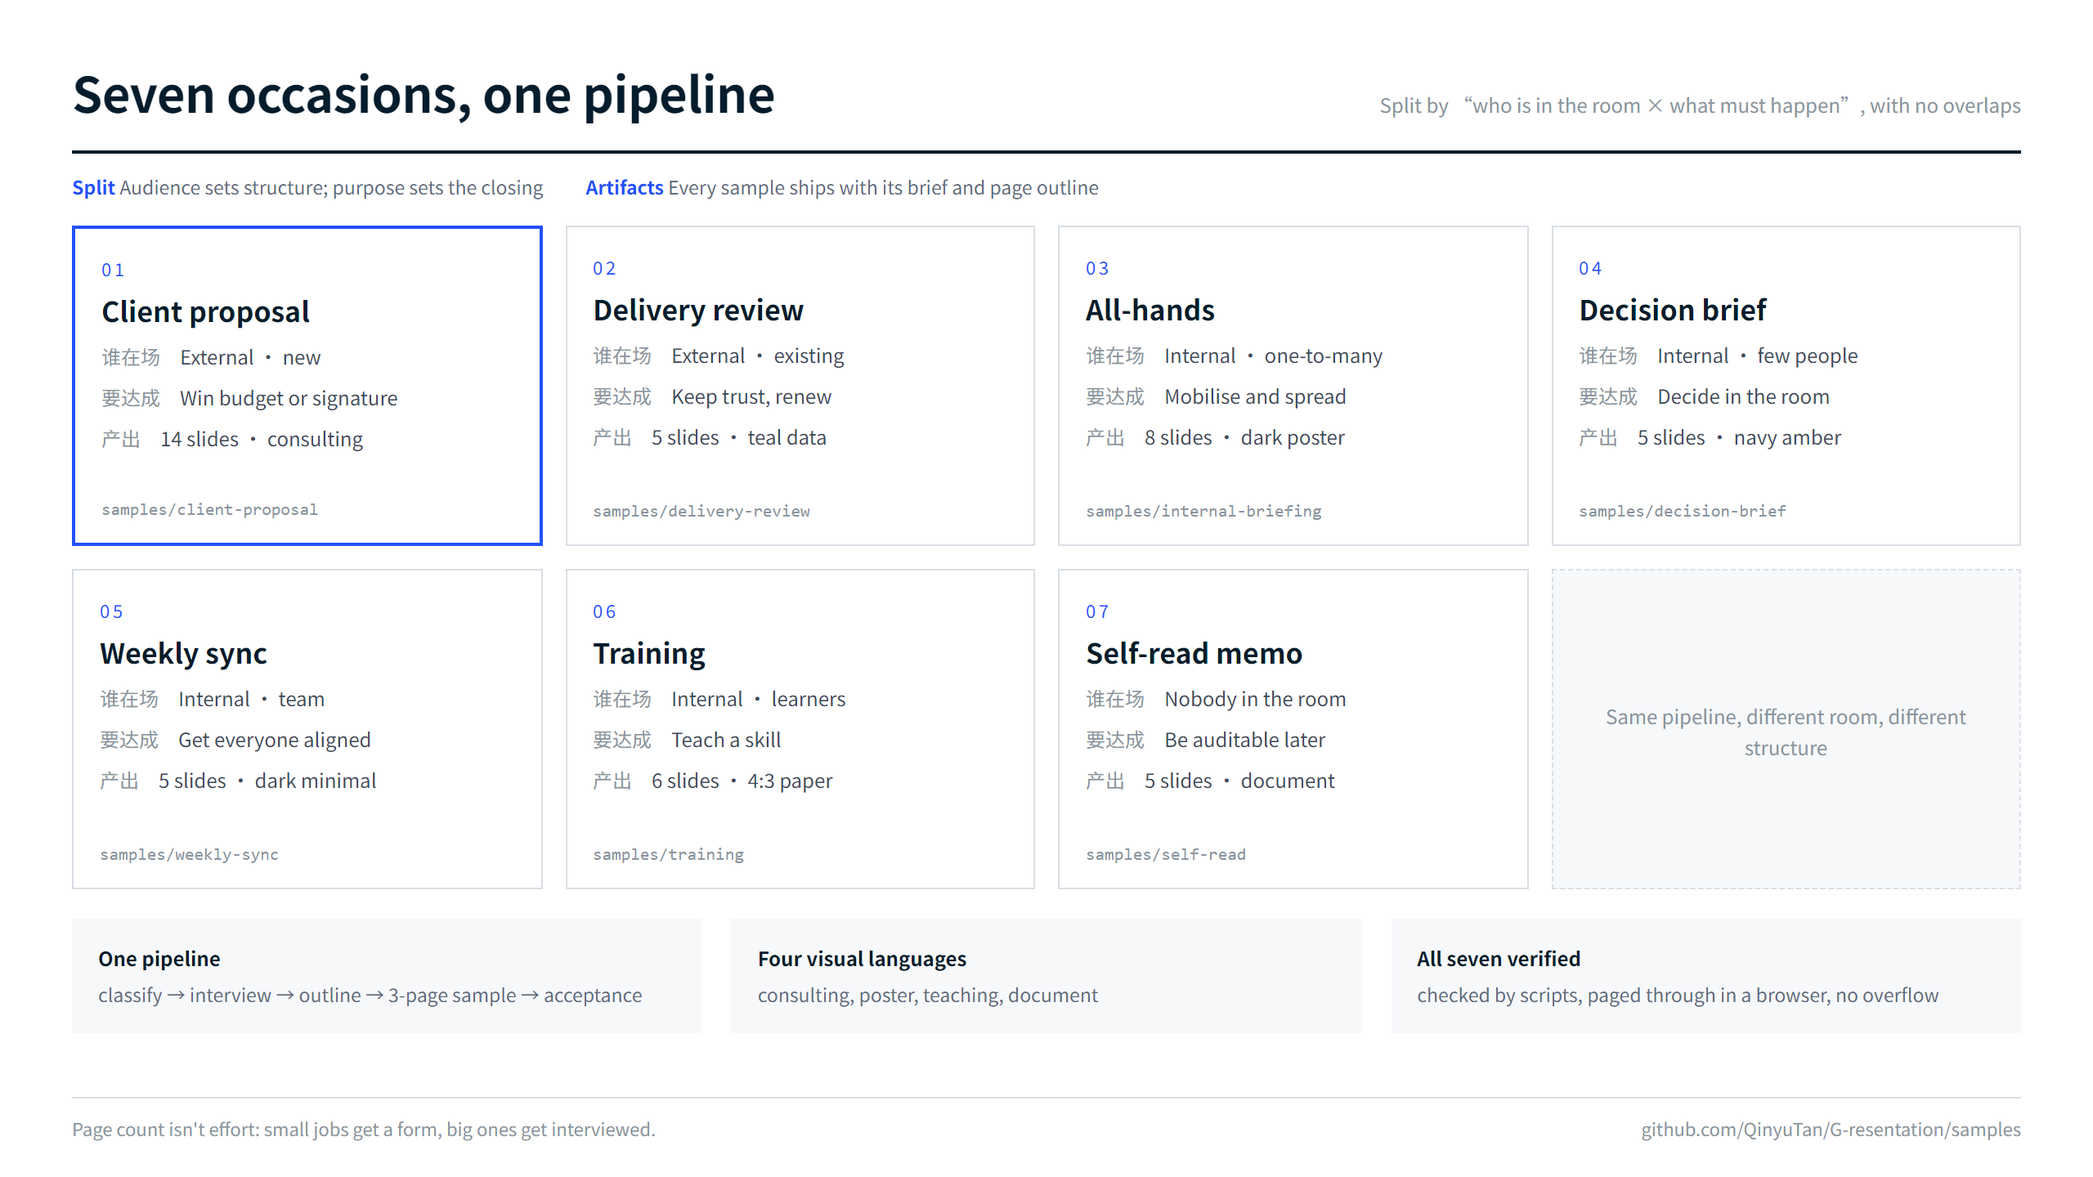
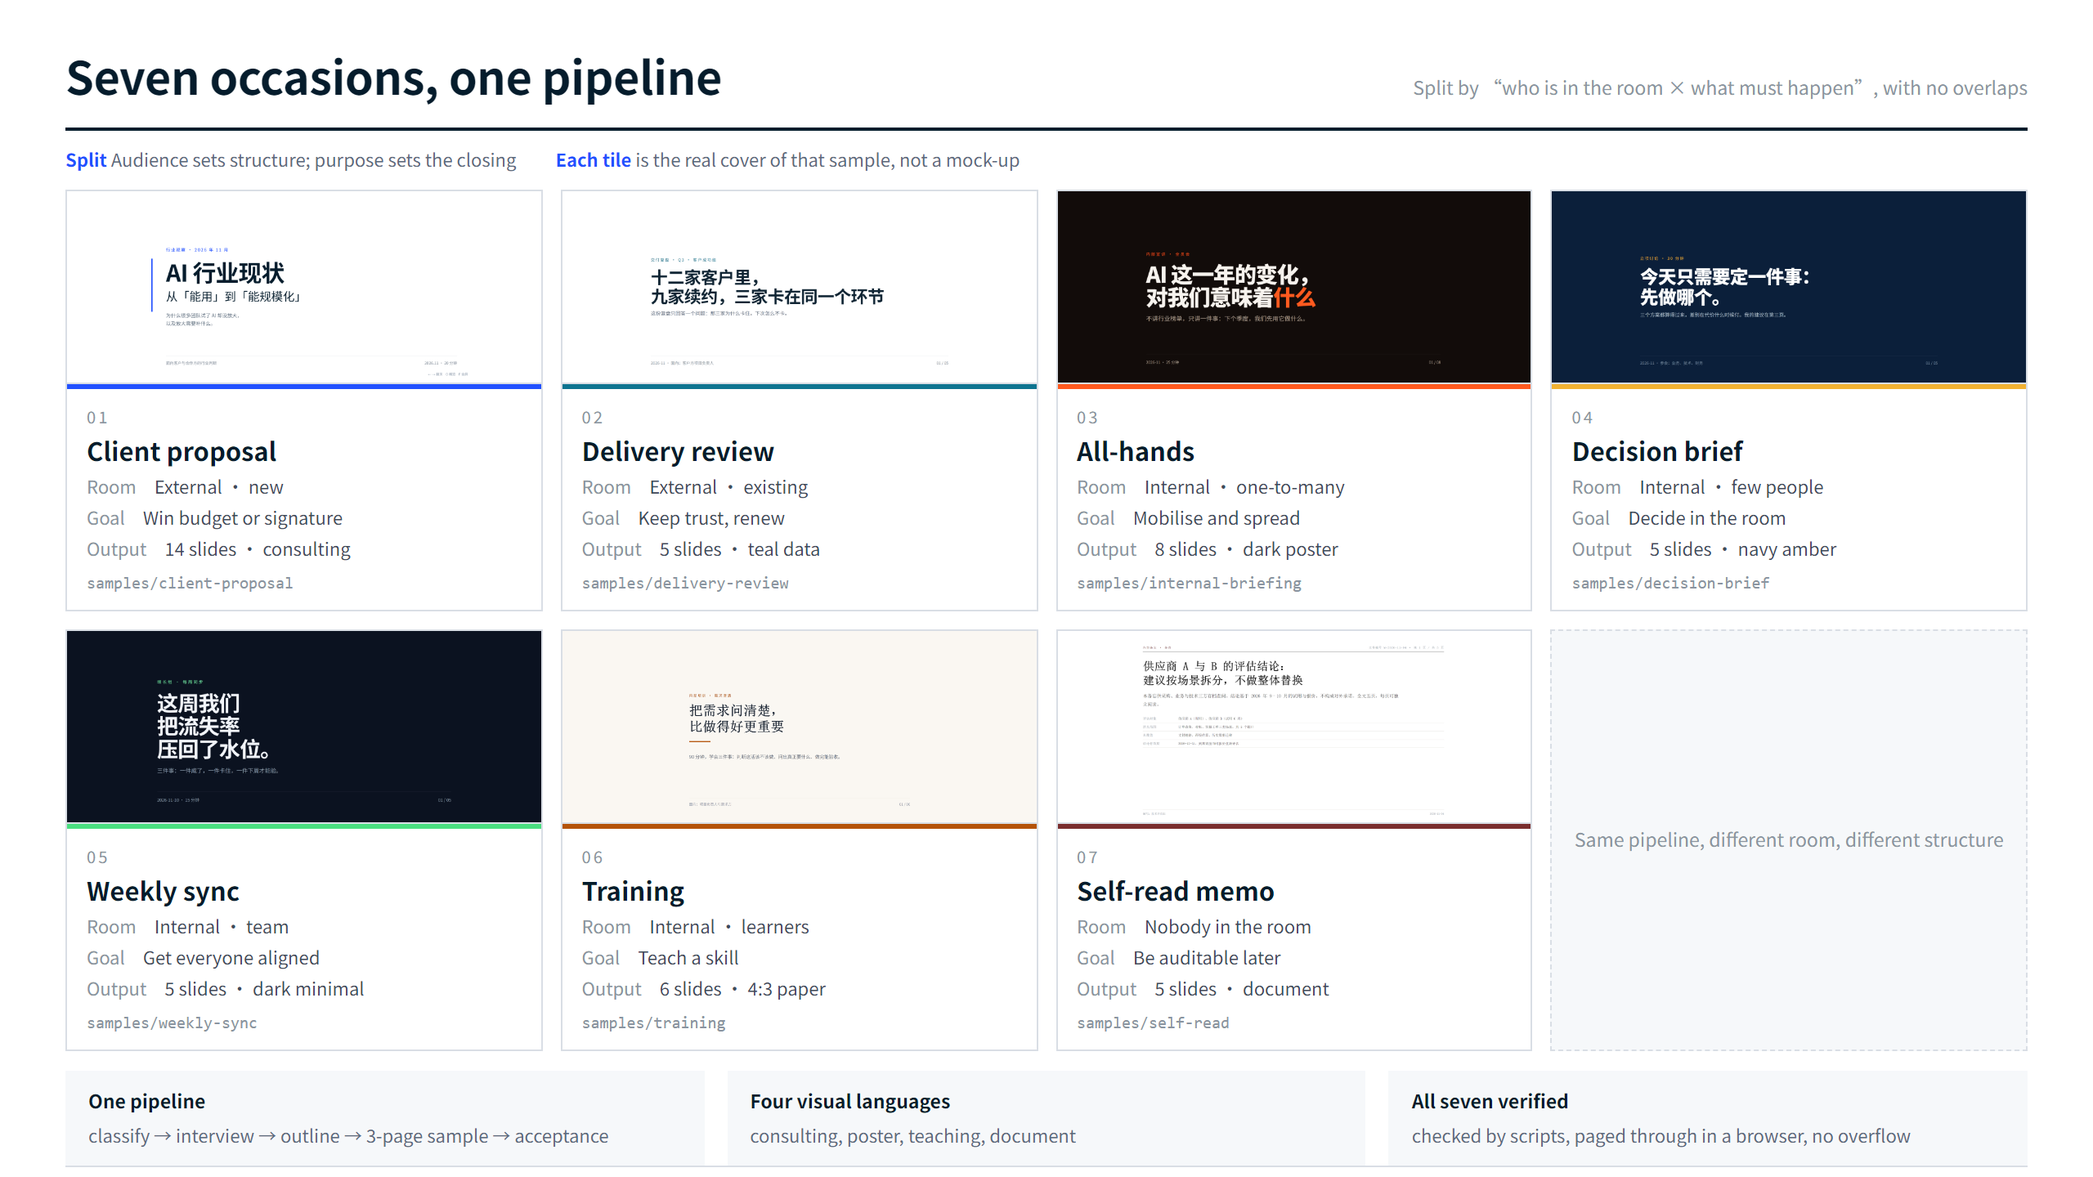
docs: 场景图改为真实封面，并如实说明样例的边界
- 七格各带该样例的真实封面，底色沿用各自版式，不再统一白底
- samples/README 增“证明了什么 / 没有证明什么”两节
- 撤回“文档先冻结、页面照着做”这一不准确表述：只有 client-proposal 走了完整闸口
- README 中英同步说明：页面为手写实现，不代表流水线端到端自动生成

diff --git a/docs/images/src/scenarios.html b/docs/images/src/scenarios.html
@@ -8,37 +8,38 @@
   *{margin:0;padding:0;box-sizing:border-box}
   html,body{width:1280px;height:720px;overflow:hidden;background:#fff}
   body{font-family:"Source Han Sans SC","Noto Sans SC","PingFang SC","Microsoft YaHei",sans-serif;color:var(--ink)}
-  .wrap{width:1280px;height:720px;padding:34px 44px 22px;display:flex;flex-direction:column}
-  header{display:flex;justify-content:space-between;align-items:baseline;border-bottom:2px solid var(--ink);padding-bottom:14px}
-  h1{font-size:30px;letter-spacing:-.01em}
-  .sub{font-size:12px;color:var(--faint)}
-  .legend{display:flex;gap:26px;margin-top:12px;font-size:11.5px;color:var(--muted)}
+  .wrap{width:1280px;height:720px;padding:26px 40px 16px;display:flex;flex-direction:column}
+  header{display:flex;justify-content:space-between;align-items:baseline;border-bottom:2px solid var(--ink);padding-bottom:12px}
+  h1{font-size:28px;letter-spacing:-.01em}
+  .sub{font-size:11.5px;color:var(--faint)}
+  .legend{display:flex;gap:24px;margin-top:9px;font-size:11px;color:var(--muted)}
   .legend b{color:var(--accent);font-weight:600}
-  .grid{display:grid;grid-template-columns:repeat(4,1fr);gap:14px;margin-top:16px}
-  .card{border:1px solid var(--rule);padding:16px 16px 14px;display:flex;flex-direction:column;gap:7px;background:#fff;min-height:196px}
-  .card:first-child{border-color:var(--accent);border-width:2px}
-  .n{font-size:11px;letter-spacing:.16em;color:var(--accent)}
-  .t{font-size:17px;font-weight:700;line-height:1.35}
-  .m{font-size:12px;color:#3E4C5A;line-height:1.5}
+  .grid{display:grid;grid-template-columns:repeat(4,1fr);gap:11px;margin-top:11px}
+  .card{border:1px solid var(--rule);background:#fff;overflow:hidden;display:flex;flex-direction:column}
+  .card .thumb{width:100%;height:118px;object-fit:contain;background:var(--bg);display:block;border-bottom:1px solid var(--rule)}
+  .card .bd{padding:9px 12px 10px;display:flex;flex-direction:column;gap:3px;border-top:3px solid var(--k)}
+  .n{font-size:10px;letter-spacing:.16em;color:var(--faint)}
+  .t{font-size:15.5px;font-weight:700;line-height:1.3;margin-bottom:2px}
+  .m{font-size:11px;color:#3E4C5A;line-height:1.45}
   .m span{color:var(--faint)}
-  .dir{margin-top:auto;font-size:10.5px;color:var(--faint);font-family:Consolas,monospace}
-  .empty{border:1px dashed var(--rule);background:var(--panel);display:flex;align-items:center;justify-content:center;font-size:12px;color:var(--faint);text-align:center;line-height:1.6}
-  .strip{display:grid;grid-template-columns:repeat(3,1fr);gap:18px;margin-top:18px}
-  .strip div{background:var(--panel);padding:14px 16px;font-size:11.5px;color:var(--muted);line-height:1.6}
-  .strip b{display:block;color:var(--ink);font-size:12px;margin-bottom:4px}
-  footer{display:flex;justify-content:space-between;margin-top:auto;border-top:1px solid var(--rule);padding-top:10px;font-size:11px;color:var(--faint)}
+  .dir{margin-top:4px;font-size:10px;color:var(--faint);font-family:Consolas,monospace}
+  .empty{border:1px dashed var(--rule);background:var(--panel);display:flex;align-items:center;justify-content:center;font-size:11.5px;color:var(--faint);text-align:center;line-height:1.7;padding:12px}
+  .strip{display:grid;grid-template-columns:repeat(3,1fr);gap:14px;margin-top:12px}
+  .strip div{background:var(--panel);padding:10px 14px;font-size:11px;color:var(--muted);line-height:1.55}
+  .strip b{display:block;color:var(--ink);font-size:11.5px;margin-bottom:3px}
+  footer{display:flex;justify-content:space-between;margin-top:auto;border-top:1px solid var(--rule);padding-top:8px;font-size:10.5px;color:var(--faint)}
 </style>
 </head>
 <body>
 <div class="wrap">
   <header>
     <h1 id="title">七种场合，一套流程</h1>
-    <div class="sub" id="sub">按"谁在场 × 要达成什么"划分，两两不重叠</div>
+    <div class="sub" id="sub">按“谁在场 × 要达成什么”划分，两两不重叠</div>
   </header>
 
   <div class="legend">
     <span><b id="lg1">判据</b> <span id="lg1v">受众关系决定结构，目的决定收尾</span></span>
-    <span><b id="lg2">产物</b> <span id="lg2v">每份都带 brief 与逐页稿，可直接打开</span></span>
+    <span><b id="lg2">每格</b> <span id="lg2v">是该场合样例的真实封面，不是示意图</span></span>
   </div>
 
   <div class="grid" id="grid"></div>
@@ -58,33 +59,33 @@
 <script>
 const DATA = {
   zh: [
-    { n:"01", t:"客户提案", who:"外部 · 尚未合作", goal:"争取资源或签约", page:"14 页 · 咨询风", dir:"samples/client-proposal" },
-    { n:"02", t:"交付复盘", who:"外部 · 已合作", goal:"维护信任与续约", page:"5 页 · 青蓝数据", dir:"samples/delivery-review" },
-    { n:"03", t:"全员宣讲", who:"对内 · 一对多", goal:"动员与传播", page:"8 页 · 深色大字报", dir:"samples/internal-briefing" },
-    { n:"04", t:"内部决策", who:"对内 · 少数人", goal:"当场拍板", page:"5 页 · 深蓝琥珀", dir:"samples/decision-brief" },
-    { n:"05", t:"进度同步", who:"对内 · 团队", goal:"信息对齐", page:"5 页 · 深色极简", dir:"samples/weekly-sync" },
-    { n:"06", t:"培训赋能", who:"对内 · 学员", goal:"教会做某件事", page:"6 页 · 米色 4:3", dir:"samples/training" },
-    { n:"07", t:"自阅存档", who:"无人在场", goal:"事后能查能复核", page:"5 页 · 文档体", dir:"samples/self-read" },
+    { n:"01", t:"客户提案", who:"外部 · 尚未合作", goal:"争取资源或签约", page:"14 页 · 咨询风", dir:"samples/client-proposal", bg:"#FFFFFF", img:"cover-client.png", k:"#2251FF" },
+    { n:"02", t:"交付复盘", who:"外部 · 已合作", goal:"维护信任与续约", page:"5 页 · 青蓝数据", dir:"samples/delivery-review", bg:"#FFFFFF", img:"cover-delivery.png", k:"#0E7490" },
+    { n:"03", t:"全员宣讲", who:"对内 · 一对多", goal:"动员与传播", page:"8 页 · 深色大字报", dir:"samples/internal-briefing", bg:"#120C0A", img:"cover-internal.png", k:"#FF5A1F" },
+    { n:"04", t:"内部决策", who:"对内 · 少数人", goal:"当场拍板", page:"5 页 · 深蓝琥珀", dir:"samples/decision-brief", bg:"#0B1F3A", img:"cover-decision.png", k:"#F2B233" },
+    { n:"05", t:"进度同步", who:"对内 · 团队", goal:"信息对齐", page:"5 页 · 深色极简", dir:"samples/weekly-sync", bg:"#0B1220", img:"cover-weekly.png", k:"#4ADE80" },
+    { n:"06", t:"培训赋能", who:"对内 · 学员", goal:"教会做某件事", page:"6 页 · 米色 4:3", dir:"samples/training", bg:"#FAF7F2", img:"cover-training.png", k:"#B45309" },
+    { n:"07", t:"自阅存档", who:"无人在场", goal:"事后能查能复核", page:"5 页 · 文档体", dir:"samples/self-read", bg:"#FFFFFF", img:"cover-selfread.png", k:"#7A2E2E" },
   ],
   en: [
-    { n:"01", t:"Client proposal", who:"External · new", goal:"Win budget or signature", page:"14 slides · consulting", dir:"samples/client-proposal" },
-    { n:"02", t:"Delivery review", who:"External · existing", goal:"Keep trust, renew", page:"5 slides · teal data", dir:"samples/delivery-review" },
-    { n:"03", t:"All-hands", who:"Internal · one-to-many", goal:"Mobilise and spread", page:"8 slides · dark poster", dir:"samples/internal-briefing" },
-    { n:"04", t:"Decision brief", who:"Internal · few people", goal:"Decide in the room", page:"5 slides · navy amber", dir:"samples/decision-brief" },
-    { n:"05", t:"Weekly sync", who:"Internal · team", goal:"Get everyone aligned", page:"5 slides · dark minimal", dir:"samples/weekly-sync" },
-    { n:"06", t:"Training", who:"Internal · learners", goal:"Teach a skill", page:"6 slides · 4:3 paper", dir:"samples/training" },
-    { n:"07", t:"Self-read memo", who:"Nobody in the room", goal:"Be auditable later", page:"5 slides · document", dir:"samples/self-read" },
+    { n:"01", t:"Client proposal", who:"External · new", goal:"Win budget or signature", page:"14 slides · consulting", dir:"samples/client-proposal", bg:"#FFFFFF", img:"cover-client.png", k:"#2251FF" },
+    { n:"02", t:"Delivery review", who:"External · existing", goal:"Keep trust, renew", page:"5 slides · teal data", dir:"samples/delivery-review", bg:"#FFFFFF", img:"cover-delivery.png", k:"#0E7490" },
+    { n:"03", t:"All-hands", who:"Internal · one-to-many", goal:"Mobilise and spread", page:"8 slides · dark poster", dir:"samples/internal-briefing", bg:"#120C0A", img:"cover-internal.png", k:"#FF5A1F" },
+    { n:"04", t:"Decision brief", who:"Internal · few people", goal:"Decide in the room", page:"5 slides · navy amber", dir:"samples/decision-brief", bg:"#0B1F3A", img:"cover-decision.png", k:"#F2B233" },
+    { n:"05", t:"Weekly sync", who:"Internal · team", goal:"Get everyone aligned", page:"5 slides · dark minimal", dir:"samples/weekly-sync", bg:"#0B1220", img:"cover-weekly.png", k:"#4ADE80" },
+    { n:"06", t:"Training", who:"Internal · learners", goal:"Teach a skill", page:"6 slides · 4:3 paper", dir:"samples/training", bg:"#FAF7F2", img:"cover-training.png", k:"#B45309" },
+    { n:"07", t:"Self-read memo", who:"Nobody in the room", goal:"Be auditable later", page:"5 slides · document", dir:"samples/self-read", bg:"#FFFFFF", img:"cover-selfread.png", k:"#7A2E2E" },
   ]
 };
 const T = {
   zh:{ title:"七种场合，一套流程", sub:"按“谁在场 × 要达成什么”划分，两两不重叠",
-       lg1:"判据", lg1v:"受众关系决定结构，目的决定收尾", lg2:"产物", lg2v:"每份都带 brief 与逐页稿，可直接打开",
+       lg1:"判据", lg1v:"受众关系决定结构，目的决定收尾", lg2:"每格", lg2v:"是该场合样例的真实封面，不是示意图",
        foot:"页数不代表工作量：小事档填表就走，大活逐条问到底。", empty:"同一套流程，换个场合就换结构",
        st1t:"同一套流程", st1:"判档 → 问需求 → 逐页稿 → 三页样稿 → 验收",
        st2t:"四种版式语言", st2:"咨询、大字报、教学、文档体",
        st3t:"七份都验过", st3:"机检通过，并在浏览器里逐页翻过、无溢出" },
   en:{ title:"Seven occasions, one pipeline", sub:"Split by “who is in the room × what must happen”, with no overlaps",
-       lg1:"Split", lg1v:"Audience sets structure; purpose sets the closing", lg2:"Artifacts", lg2v:"Every sample ships with its brief and page outline",
+       lg1:"Split", lg1v:"Audience sets structure; purpose sets the closing", lg2:"Each tile", lg2v:"is the real cover of that sample, not a mock-up",
        foot:"Page count isn't effort: small jobs get a form, big ones get interviewed.", empty:"Same pipeline, different room, different structure",
        st1t:"One pipeline", st1:"classify → interview → outline → 3-page sample → acceptance",
        st2t:"Four visual languages", st2:"consulting, poster, teaching, document",
@@ -92,27 +93,31 @@ const T = {
 };
 const lang = new URLSearchParams(location.search).get("lang") === "en" ? "en" : "zh";
 const t = T[lang], list = DATA[lang];
-document.getElementById("title").textContent = t.title;
-document.getElementById("sub").textContent = t.sub;
-document.getElementById("lg1").textContent = t.lg1;
-document.getElementById("lg1v").textContent = t.lg1v;
-document.getElementById("lg2").textContent = t.lg2;
-document.getElementById("lg2v").textContent = t.lg2v;
-document.getElementById("foot-l").textContent = t.foot;
+const put = (id, v) => { const el = document.getElementById(id); if (el) el.textContent = v; };
+put("title", t.title); put("sub", t.sub);
+put("lg1", t.lg1); put("lg1v", t.lg1v); put("lg2", t.lg2); put("lg2v", t.lg2v);
+put("foot-l", t.foot); put("st1t", t.st1t); put("st1", t.st1);
+put("st2t", t.st2t); put("st2", t.st2); put("st3t", t.st3t); put("st3", t.st3);
+
 const grid = document.getElementById("grid");
 for (const it of list) {
   const el = document.createElement("div");
   el.className = "card";
-  el.innerHTML = `<div class="n">${it.n}</div><div class="t">${it.t}</div>
-    <div class="m"><span>谁在场</span>　${it.who}</div>
-    <div class="m"><span>要达成</span>　${it.goal}</div>
-    <div class="m"><span>产出</span>　${it.page}</div>
-    <div class="dir">${it.dir}</div>`;
+  el.style.setProperty("--k", it.k);
+  el.style.setProperty("--bg", it.bg);
+  el.innerHTML = `<img class="thumb" src="../samples/${it.img}" alt="">
+    <div class="bd">
+      <div class="n">${it.n}</div>
+      <div class="t">${it.t}</div>
+      <div class="m"><span>${lang === "en" ? "Room" : "谁在场"}</span>　${it.who}</div>
+      <div class="m"><span>${lang === "en" ? "Goal" : "要达成"}</span>　${it.goal}</div>
+      <div class="m"><span>${lang === "en" ? "Output" : "产出"}</span>　${it.page}</div>
+      <div class="dir">${it.dir}</div>
+    </div>`;
   grid.appendChild(el);
 }
-["st1t","st1","st2t","st2","st3t","st3"].forEach(k => document.getElementById(k).textContent = t[k]);
 const empty = document.createElement("div");
-empty.className = "card empty";
+empty.className = "empty";
 empty.textContent = t.empty;
 grid.appendChild(empty);
 document.documentElement.lang = lang === "en" ? "en" : "zh-CN";

diff --git a/samples/README.md b/samples/README.md
@@ -1,8 +1,6 @@
 # 样例
 
-七份完整样例，覆盖七种互不重叠的场合。每份都带自己的 `brief.md`（需求说明）和 `outline.md`（逐页稿）——不是把页面做出来再补文档，而是文档先冻结、页面照着做。
-
-场景按"谁在场 × 要达成什么"划分：
+七份完整样例，覆盖七种互不重叠的场合。场景按"谁在场 × 要达成什么"划分：
 
 | # | 样例 | 谁在场 | 要达成 | 版式 | 页数 |
 |---|---|---|---|---|---|
@@ -14,20 +12,28 @@
 | 06 | `training/` | 对内 · 学员 | 教会做某件事 | 米色教学，4:3 | 6 |
 | 07 | `self-read/` | 无人在场 | 事后能查能复核 | 文档体，衬线，16:9 | 5 |
 
-## 两种差异值得注意
+## 这些样例证明了什么
 
-**同主题、不同受众。** 01 和 03 用的是同一份行业事实：对客户先给判断、每条带出处、收尾是"现在不适合做的三件事"；对同事只留三条硬事实，其余换成"关我什么事"，收尾是"三个人，一个场景，九十天"。
+**版式能力**：同一套内容逻辑可以落到咨询、大字报、教学、文档四种视觉语言上，画布也能在 16:9 与 4:3 之间切换。
 
-**同流程、不同交付。** 06 用 4:3 画布，因为要打印成讲义；07 是阅读型，没有讲者，所以每页自带完整信息、页码与文件编号，不依赖口头补充。
+**场景映射**：受众关系决定结构，目的决定收尾。01 与 03 用同一份行业事实，对客户是"判断 + 出处 + 不该做什么"，对同事是"三条事实 + 关我什么事 + 三个人一个场景"。
+
+**可交付性**：七份都能双击打开、键盘翻页、断网可用；七份都过了脚本机检，并在无头浏览器里逐页翻过，无溢出、无控制台报错。
+
+## 这些样例**没有**证明什么
+
+**没有证明流水线已端到端自动生成。** 页面是 agent 手写的 HTML 实现，不是由 `frontend-slides`、`guizang-ppt`、`imagegen` 或 `ppt-master` 跑出来的产物。流程负责的是需求、结构、检查点和验收标准；具体排版目前仍由 agent 执行。
+
+**没有证明 brief 与 outline 一定先于页面产生。** 只有 `client-proposal` 走了完整闸口（判档 → 问需求 → brief → 逐页稿 → 机检 → 冻结 → 三页样稿 → 全量）。其余六份是先做出页面，再按成品回溯整理出 `brief.md` 与 `outline.md`。文档与成品一致，但顺序是反的。
+
+**没有真实用户参与。** 所有反馈都来自作者自查，没有外部使用者跑过这套流程。
 
 ## 打开方式
 
 每个目录下的 `index.html` 双击即可，左右键翻页，`F` 全屏。没有外部依赖，断网可用。
 
-## 关于这些样例
+## 数据说明
 
-它们是真实跑过流程的产物，不是示意。文案里的数字都标了来源或注明"判断，非统计"；`client-proposal` 的行业数据来自 2026-11 的公开报道，原始出处写在页脚。
+`client-proposal` 的行业数据来自 2026-11 的公开报道，原始出处写在页脚。
 
 `delivery-review`、`weekly-sync`、`internal-briefing`、`decision-brief`、`self-read` 里的业务数字（覆盖率、人日、周期、报价）都是示例设定，不来自任何真实公司数据。
-
-七份都用脚本过了机检，并在无头浏览器里逐页翻过，无溢出、无控制台报错。

diff --git a/README.md b/README.md
@@ -70,6 +70,8 @@ G-resentation 的做法很朴素：**先问，再锁，后做，最后验。**
 
 七份都带 `brief.md` 与 `outline.md`，双击目录里的 `index.html` 就能翻页。七份都过了机检、在浏览器里逐页翻过、无溢出。
 
+说清楚这些样例的边界：页面是 agent 手写的 HTML 实现，不是由制作技能跑出来的产物；只有 client-proposal 走了完整闸口（brief → 逐页稿 → 机检 → 冻结 → 三页样稿 → 全量），其余六份是先做页面、再回溯整理文档。它们证明的是版式能力与场景映射，不证明流水线已端到端自动生成。详见 [samples/README.md](samples/README.md)。
+
 ## 安装
 
 一条命令，装到全局：
@@ -196,6 +198,8 @@ The left side isn't a strawman — it's the cheapest correct-looking output when
 | 07 | Self-read memo | Nobody | Stay auditable | [self-read](samples/self-read/), 5 slides |
 
 Every sample ships with its `brief.md` and `outline.md`; all seven pass the scripts, page through cleanly in a browser, and have no overflow.
+
+To be precise about what they show: the pages are hand-authored HTML by the agent, not output from a build skill. Only `client-proposal` went through the full gate sequence; the other six were built first and documented afterwards. They demonstrate layout range and scenario mapping — not an end-to-end automated pipeline. See [samples/README.md](samples/README.md).
 
 Not another topic-to-slides generator. It owns the part between a blank page and something you can hand to a client.
 
